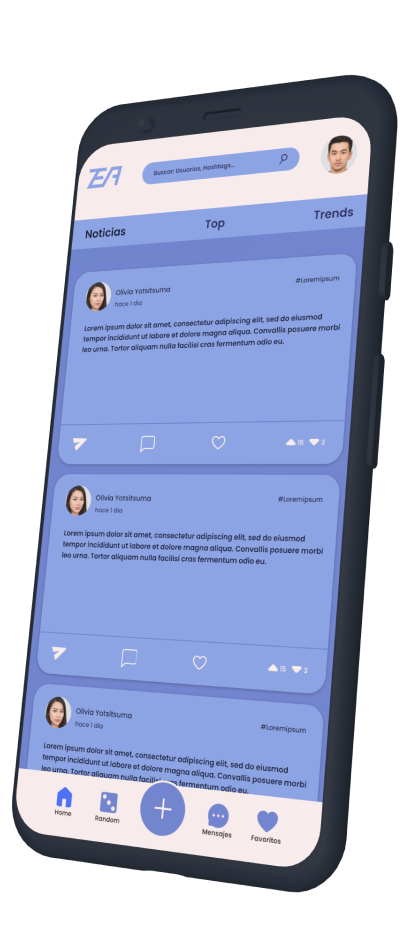
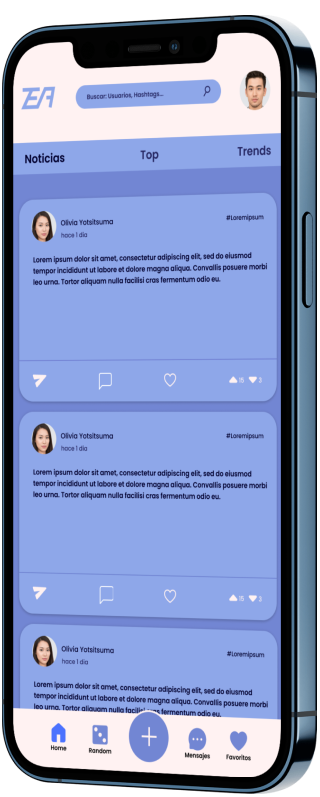
imagen en mejor calidad

diff --git a/FrontEnd/TeaPaginaTerminada/src/App.css b/FrontEnd/TeaPaginaTerminada/src/App.css
@@ -7,6 +7,7 @@ img{
     -webkit-user-drag: none;
     animation: celular 13s ease-in-out 0s infinite normal none;
     -webkit-animation: celular 13s ease-in-out 0s infinite normal none;
+    rotate: 1deg;
 }
 
 @keyframes celular {
@@ -16,11 +17,11 @@ img{
     100%{
         transform: translate(0px, 0px);
     }
-    49.8%{
-        transform: translate(0px,-50px);
-        -webkit-transform: translate(0px,-50px);
-        -moz-transform: translate(0px,-50px);
-        -ms-transform: translate(0px,-50px);
-        -o-transform: translate(0px,-50px);
+    50%{
+        transform: translate(0px,-45px);
+        -webkit-transform: translate(0px,-45px);
+        -moz-transform: translate(0px,-45px);
+        -ms-transform: translate(0px,-45px);
+        -o-transform: translate(0px,-45px);
 }
 }

diff --git a/FrontEnd/TeaPaginaTerminada/src/App.js b/FrontEnd/TeaPaginaTerminada/src/App.js
@@ -23,7 +23,7 @@ function App() {
             </button>
           </a>
         </div>
-        <img className="hidden md:inline max-w-none h-[80vh] ml-[50%] md:ml-[46%] md:col-span-4" alt="Mobile" src={celular}></img>
+        <img className="hidden md:inline max-w-none mt-[10%] h-[70vh] ml-[50%] md:ml-[55%] md:col-span-4" alt="Mobile" src={celular}></img>
         </div>
       <svg fill="none" viewBox="0 0 1728 342" xmlns="http://www.w3.org/2000/svg">
         <path d="M0 17.87l48-7.045c48-7.047 144-20.356 240 0 96 20.355 192 74.377 288 128.399 96 54.021 192 108.043 288 115.089 96 6.263 192-33.666 288-47.758 96-13.31 192 0 288 14.092 96 13.31 192 26.62 240 33.666l48 6.263V342H0V17.87z" fill="#2a56fa" fillRule="evenodd"/>
